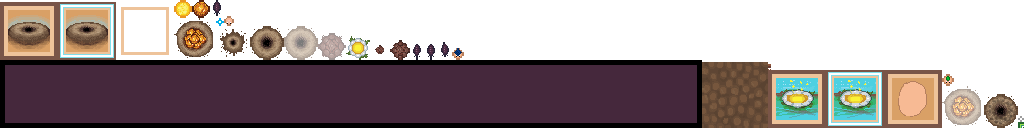
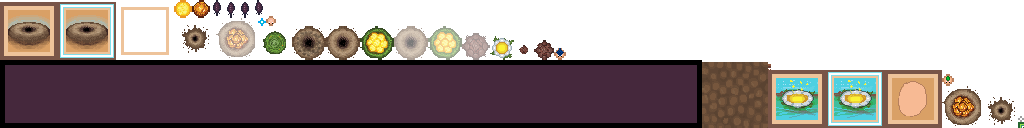
Added storages

Changed region(s): [[0.1562, 0.0312, 0.5625, 0.4688], [0.9062, 0.6875, 1.0, 1.0]]

diff --git a/LudumDare38/core/src/com/gurbx/ld38/ui/HouseMenu.java b/LudumDare38/core/src/com/gurbx/ld38/ui/HouseMenu.java
@@ -19,6 +19,8 @@ public class HouseMenu {
 	private String barrackDescription;
 	private String resinPumpDescription;
 	private String pollenPumpDescription;
+	private String resinStorageDesc;
+	private String pollenStorageDesc;
 	private int hover;
 	private float x = 55;
 	private float y = 95;
@@ -42,11 +44,12 @@ public class HouseMenu {
 		barrackDescription = "Solider training";
 		pollenPumpDescription = "Gathers pollen";
 		resinPumpDescription = "Gathers resin";
-		
+		resinStorageDesc = "Increases the storage capacity of resin by 100"; 
+		pollenStorageDesc = "Increases the storage capacity of pollen by 100"; 
 	}
 
 	private void initButtons(Stage stage, TextureAtlas atlas) {
-		houseButton = new ImageButton[3];
+		houseButton = new ImageButton[5];
 		float buttonX = 56; 
 		float buttonY = 10;
         Skin skin = new Skin(atlas);
@@ -64,10 +67,22 @@ public class HouseMenu {
         style3.imageUp = skin.getDrawable("houseButton2");
         style3.imageOver = skin.getDrawable("houseButtonOver2");
         style3.imageDown = skin.getDrawable("houseButtonPressed2");
+        
+        ImageButton.ImageButtonStyle style4 = new ImageButton.ImageButtonStyle();
+        style4.imageUp = skin.getDrawable("houseButton2");
+        style4.imageOver = skin.getDrawable("houseButtonOver2");
+        style4.imageDown = skin.getDrawable("houseButtonPressed2");
+        
+        ImageButton.ImageButtonStyle style5 = new ImageButton.ImageButtonStyle();
+        style5.imageUp = skin.getDrawable("houseButton2");
+        style5.imageOver = skin.getDrawable("houseButtonOver2");
+        style5.imageDown = skin.getDrawable("houseButtonPressed2");
 
         houseButton[0] = new ImageButton(style1);
         houseButton[1] = new ImageButton(style2);
         houseButton[2] = new ImageButton(style3);
+        houseButton[3] = new ImageButton(style4);
+        houseButton[4] = new ImageButton(style5);
         
         
         //Standard
@@ -129,6 +144,46 @@ public class HouseMenu {
             }
         });
         
+        //Resin storage
+        houseButton[3].addListener( new ClickListener() {
+            @Override
+            public void clicked(InputEvent event, float x, float y) {
+            	if (!active) return;
+            	if (houseHandler.canPlaceHouse(HouseType.RESIN_STORAGE) == false) return;
+            	houseHandler.placeNewHouse(HouseType.RESIN_STORAGE);
+            };
+            @Override
+            public void enter(InputEvent event, float x, float y, int pointer, Actor fromActor) {
+            	super.enter(event, x, y, pointer, fromActor);
+            	hover = 4;
+            }
+            @Override
+            public void exit(InputEvent event, float x, float y, int pointer, Actor toActor) {
+            	super.exit(event, x, y, pointer, toActor);
+            	hover = 0;
+            }
+        });
+        
+        //Pollen storage
+        houseButton[4].addListener( new ClickListener() {
+            @Override
+            public void clicked(InputEvent event, float x, float y) {
+            	if (!active) return;
+            	if (houseHandler.canPlaceHouse(HouseType.POLLEN_STORAGE) == false) return;
+            	houseHandler.placeNewHouse(HouseType.POLLEN_STORAGE);
+            };
+            @Override
+            public void enter(InputEvent event, float x, float y, int pointer, Actor fromActor) {
+            	super.enter(event, x, y, pointer, fromActor);
+            	hover = 5;
+            }
+            @Override
+            public void exit(InputEvent event, float x, float y, int pointer, Actor toActor) {
+            	super.exit(event, x, y, pointer, toActor);
+            	hover = 0;
+            }
+        });
+        
         
         for (int i = 0; i < houseButton.length; i++) {
             houseButton[i].setPosition(buttonX + 64 * i, buttonY);
@@ -164,6 +219,16 @@ public class HouseMenu {
 			header = "Acorn";
 			description = resinPumpDescription;
 			type = HouseType.RESIN_PUMP;
+			break;
+		case 4:
+			header = "Resin Storage";
+			description = resinStorageDesc;
+			type = HouseType.RESIN_STORAGE;
+			break;
+		case 5:
+			header = "Pollen Storage";
+			description = pollenStorageDesc;
+			type = HouseType.POLLEN_STORAGE;
 			break;
 
 		default:

diff --git a/LudumDare38/core/src/com/gurbx/ld38/house/PollenStorage.java b/LudumDare38/core/src/com/gurbx/ld38/house/PollenStorage.java
@@ -3,17 +3,19 @@ package com.gurbx.ld38.house;
 import com.badlogic.gdx.graphics.g2d.TextureAtlas;
 import com.gurbx.ld38.resources.Resources;
 
-public class ResinStorage extends House {
+public class PollenStorage extends House {
 	private int ammountIncreased = 100;
 	private Resources resources;
 	private boolean storageIncreased;
 	
-
-	public ResinStorage(float x, float y, HouseType type, TextureAtlas atlas, Resources resources) {
+	
+	public PollenStorage(float x, float y, HouseType type, TextureAtlas atlas, Resources resources) {
 		super(x, y, type, atlas);
 		this.resources = resources;
 		storageIncreased = false;
 	}
+	
+	
 	
 	@Override
 	public void update(float delta, float x, float y) {
@@ -25,13 +27,16 @@ public class ResinStorage extends House {
 
 	private void increaseStorage() {
 		storageIncreased = true;
-		resources.increaseMaxResin(ammountIncreased);
+		resources.increaseMaxPollen(ammountIncreased);
 	}
 	
 	@Override
 	public void damage(int damage) {
 		super.damage(damage);
-		if (health <= 0) resources.decreaseMaxResin(ammountIncreased);
+		if (health <= 0) resources.decreaseMaxPollen(ammountIncreased);
 	}
+	
+	
+	
 
 }

diff --git a/LudumDare38/core/src/com/gurbx/ld38/house/HouseHandler.java b/LudumDare38/core/src/com/gurbx/ld38/house/HouseHandler.java
@@ -120,7 +120,11 @@ public class HouseHandler implements GameInterface {
 			break;
 		case RESIN_STORAGE:
 			resources.removeResin(type.getCost());
-			placedHouse = new ResinPump(mouseX, mouseY, type, atlas, resources);
+			placedHouse = new ResinStorage(mouseX, mouseY, type, atlas, resources);
+			break;
+		case POLLEN_STORAGE:
+			resources.removeResin(type.getCost());
+			placedHouse = new PollenStorage(mouseX, mouseY, type, atlas, resources);
 			break;
 			
 

diff --git a/LudumDare38/core/src/com/gurbx/ld38/house/HouseType.java b/LudumDare38/core/src/com/gurbx/ld38/house/HouseType.java
@@ -5,7 +5,8 @@ public enum HouseType {
 	BARRACKS("Barracks", 1f, 50, 0, 0, "1", 25),
 	RESIN_PUMP("Resin Pump", 2f, 5, 0, 0, "3", 25),
 	POLLEN_PUMP("Pollen Pump", 2f, 5, 0, 0, "2", 25),
-	RESIN_STORAGE("Resin Storage", 2f, 5, 0, 0, "4", 25);
+	RESIN_STORAGE("Resin Storage", 2f, 5, 0, 0, "4", 25),
+	POLLEN_STORAGE("Pollen Storage", 2f, 5, 0, 0, "5", 25);
 	
 	private String name;
 	private float buildTime;

diff --git a/LudumDare38/core/src/com/gurbx/ld38/utils/Projectile.java b/LudumDare38/core/src/com/gurbx/ld38/utils/Projectile.java
@@ -50,8 +50,8 @@ public class Projectile implements GameInterface {
 	
 	protected boolean hitsTarget(float eX, float eY) {
 		int hitRange = 30;
-		if (eX < x && eX+hitRange > x &&
-				eY < y && eY+hitRange > y) {
+		if (x-15 < eX && x-15 + hitRange > eX &&
+				eY < y-15 + hitRange && eY > y-15) {
 			return true;
 		}
 		return false;

diff --git a/LudumDare38/core/src/com/gurbx/ld38/house/House.java b/LudumDare38/core/src/com/gurbx/ld38/house/House.java
@@ -19,7 +19,7 @@ public class House implements Target {
 	protected float width;
 	protected float height;
 	protected HouseType type;
-	private int health;
+	protected int health;
 	private boolean shouldRemove;
 	
 	protected boolean placed;
